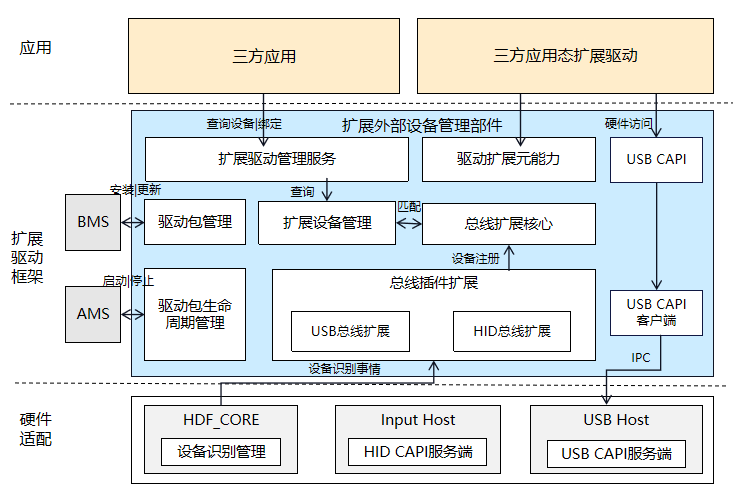
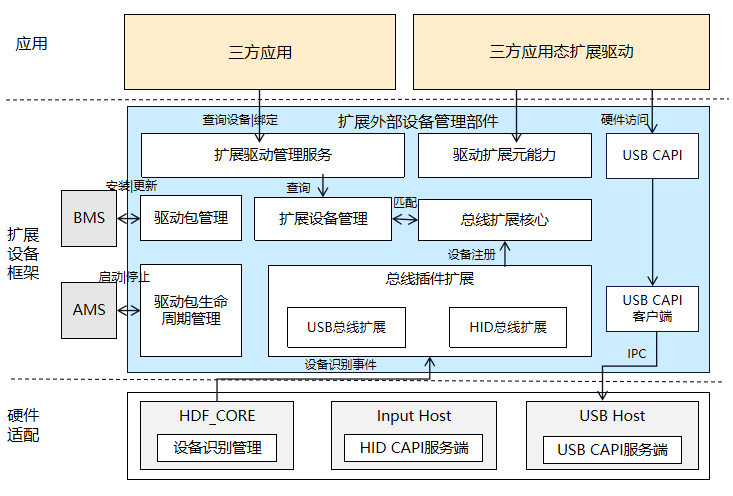
fix:fix readme information

Changed region(s): [[0.0, 0.0303, 0.9905, 0.9697], [0.0, 0.8182, 0.09, 0.9091], [0.0, 0.0606, 0.09, 0.1212]]

diff --git a/README_zh.md b/README_zh.md
@@ -1,24 +1,28 @@
-# External Device Manager
--   [简介]
--   [目录]
--   [说明]
-    -   [扩展外部设备管理框架使用说明]
--   [相关仓]
+# 扩展外部设备管理
 
 ## 简介
 
-该仓主要存放OpenHarmony驱动子系统扩展外部设备管理框架核心源码信息（包括扩展外部设备管理、扩展驱动管理服务、扩展设备管理、扩展驱动包信息管理、扩展驱动能力控制器、总线扩展核心、总线扩展插件），承载扩展驱动包全流程生命周期管理，旨在为开发者提供更高效、安全、且低成本的扩展外设驱动开发解决方案，做到即插即用的用户体验。
-
+该仓主要存放OpenHarmony驱动子系统扩展外部设备管理框架核心源码信息（包括扩展驱动管理服务、扩展设备管理、扩展驱动包信息管理、扩展驱动能力控制器、总线扩展核心、总线扩展插件），承载扩展驱动包全流程生命周期管理，旨在为开发者提供更高效、安全、且低成本的扩展外部设备驱动开发解决方案，做到即插即用的用户体验。
 
 **图 1**  扩展外部设备管理框架架构图 
 ![](figures/architecture-of-the-ext-device-manager.png)
+
+扩展外部设备管理框架主要包含八部分：<br>
+1、驱动扩展Ability----应用态扩展驱动能力的抽象，是应用Stage模型ExtensionAbility类中的一种，提供驱动硬件访问能力。<br>
+2、扩展驱动管理服务----支持扩展驱动管理服务按需启动能力，负责设备管理，包信息管理，总线扩展核心模块生命周期管理。<br>
+3、扩展设备管理----提供扩展设备查询和绑定能力，负责设备列表管理，设备与驱动匹配管理。<br>
+4、扩展驱动包信息管理----负责扩展驱动包信息解析，存储，设备匹配，支持扩展驱动包的安装，更新，卸载能力。<br>
+5、扩展驱动Ability控制器----负责扩展驱动Ability生命周期管控，包括扩展驱动Ability的启动，停止。<br>
+6、总线扩展核心----负责总线设备枚举、总线驱动包解析、包与设备匹配能力。<br>
+7、USB总线扩展插件----负责USB设备热插拔监听，USB设备信息读取。<br>
+8、USB C API----提供USB设备对三方应用提供的硬件访问接口。<br>
 
 ## 目录
 
 ```
 /drivers/external_device_manager
 ├── frameworks # 无独立进程的桥接实现
-│   └── js # 对外提供应该JS API需要
+│   └── js # 对外提供应该js API需要
 │       └──-napi # napi代码实现
 │           ├── driver_ext_ability # ext ability桥接类
 │           ├── driver_ext_context # ext context桥接类
@@ -51,22 +55,8 @@
     └── include # 通用接口定义
 ```
 
-## 说明
-
-### 扩展外部设备管理框架使用说明
-
-基于扩展驱动Ability实现扩展外部设备管理框架，为开发者提供系统非板载的扩展外设包开发方案，完成扩展驱动包全流程（开发/部署/安装/运行/能力/开放）生命周期管理。开发者只需以HAP包形式开发和发布扩展驱动，对其他三方HAP和系统服务提供硬件接口能力，实现三方扩展外部设备快速接入。
-
-扩展外设设备管理框架主要包含六部分：
-
-1、驱动扩展Ability----应用态扩展驱动能力的抽象，是应用Stage模型ExtensionAbility类中的一种。
-2、扩展驱动管理服务----支持扩展驱动管理服务按需启动能力，负责设备管理，包信息管理，总线扩展核心模块生命周期管理。
-3、扩展设备管理----提供扩展设备查询和绑定能力，负责设备列表管理，设备与驱动匹配管理。
-4、扩展驱动包信息管理----负责扩展驱动包信息解析，存储，设备匹配，支持扩展驱动包的安装，更新，卸载能力。
-5、扩展驱动Ability控制器----负责扩展驱动Ability生命周期管控，包括扩展驱动Ability的启动，停止。
-6、总线扩展核心----负责总线设备枚举、总线驱动包解析、包与设备匹配能力。
-7、USB总线扩展插件----负责USB设备热插拔监听，USB设备信息读取。
-8、USB C API----提供USB设备对三方应用提供的硬件访问接口。
+## 场景说明
+扩展外部设备管理框架支持三方设备厂商开发非标准协议的USB可插拔设备驱动接入OpenHarmony系统，提供应用直接访问非标准协议的可插拔设备硬件能力。设备厂商开发者只需以HAP包形式开发和发布扩展驱动包，并通过OpenHarmony系统安全认证后，对其他三方HAP和系统服务提供硬件接访问能力，实现非标准协议的可插拔设备快速接入。
 
 ## 相关仓
 
